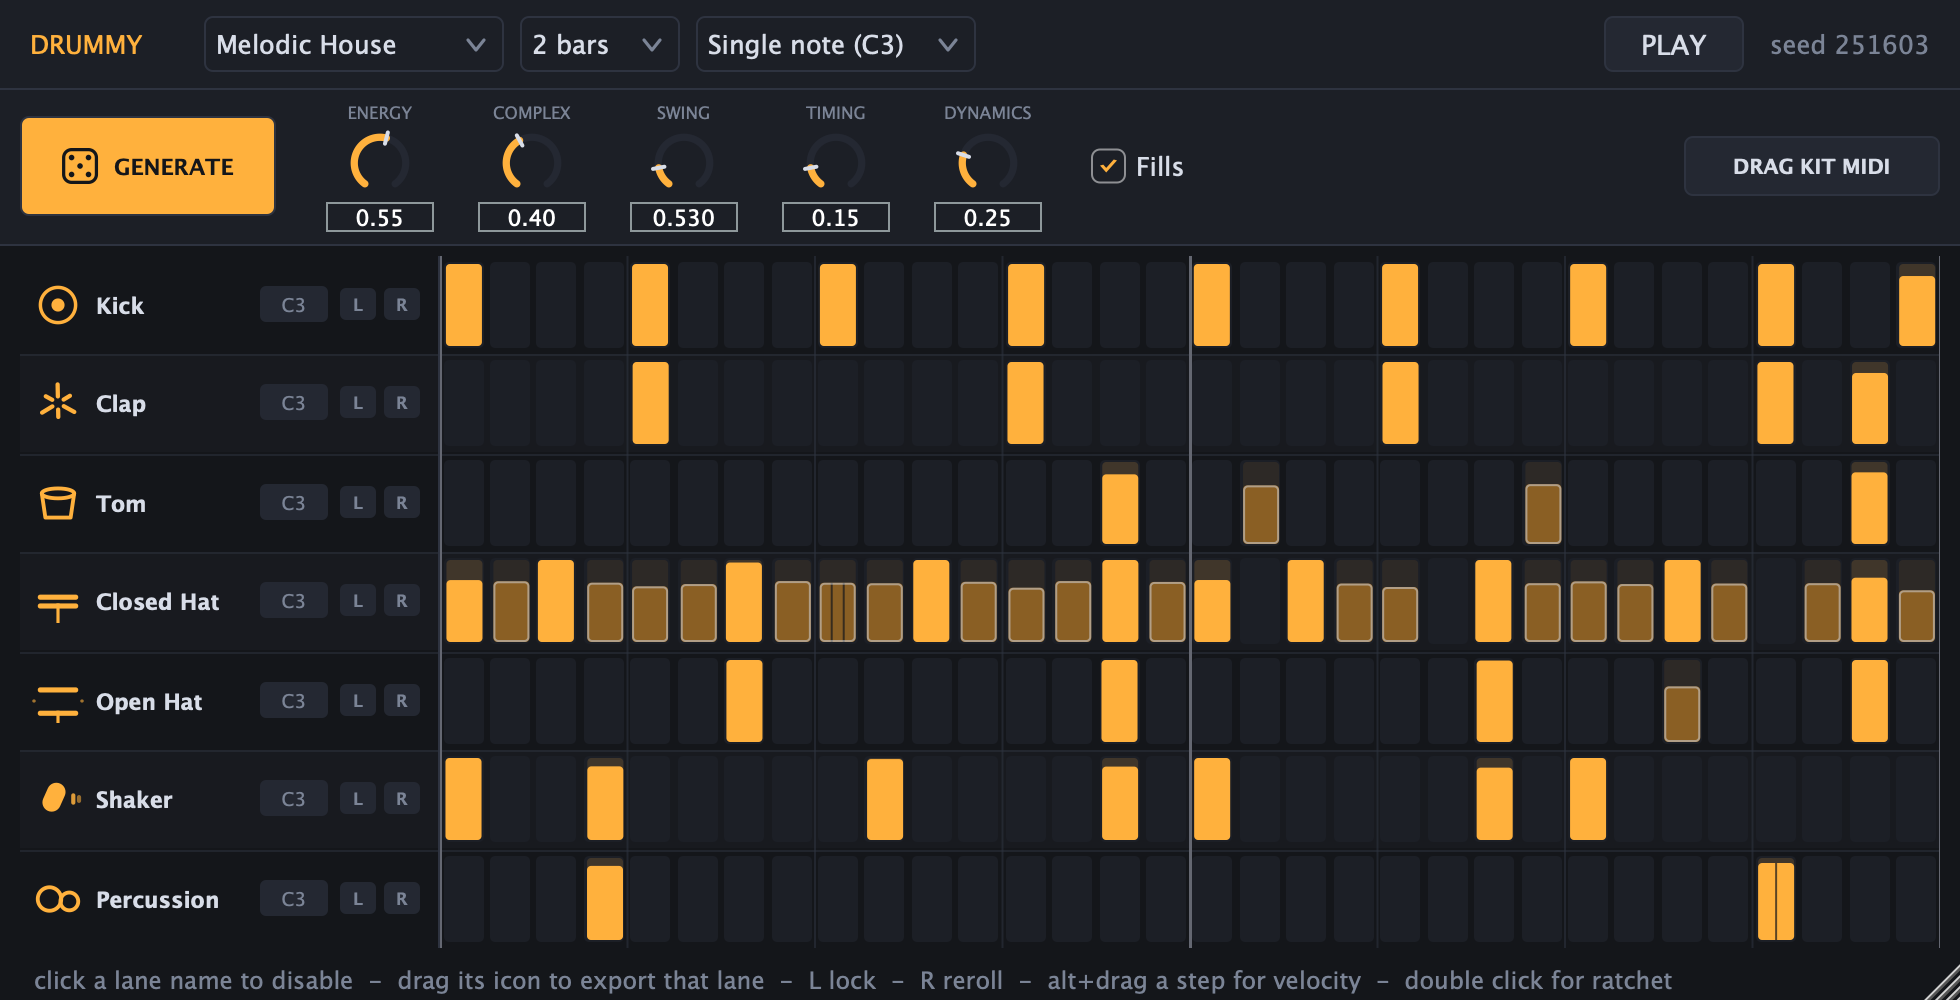
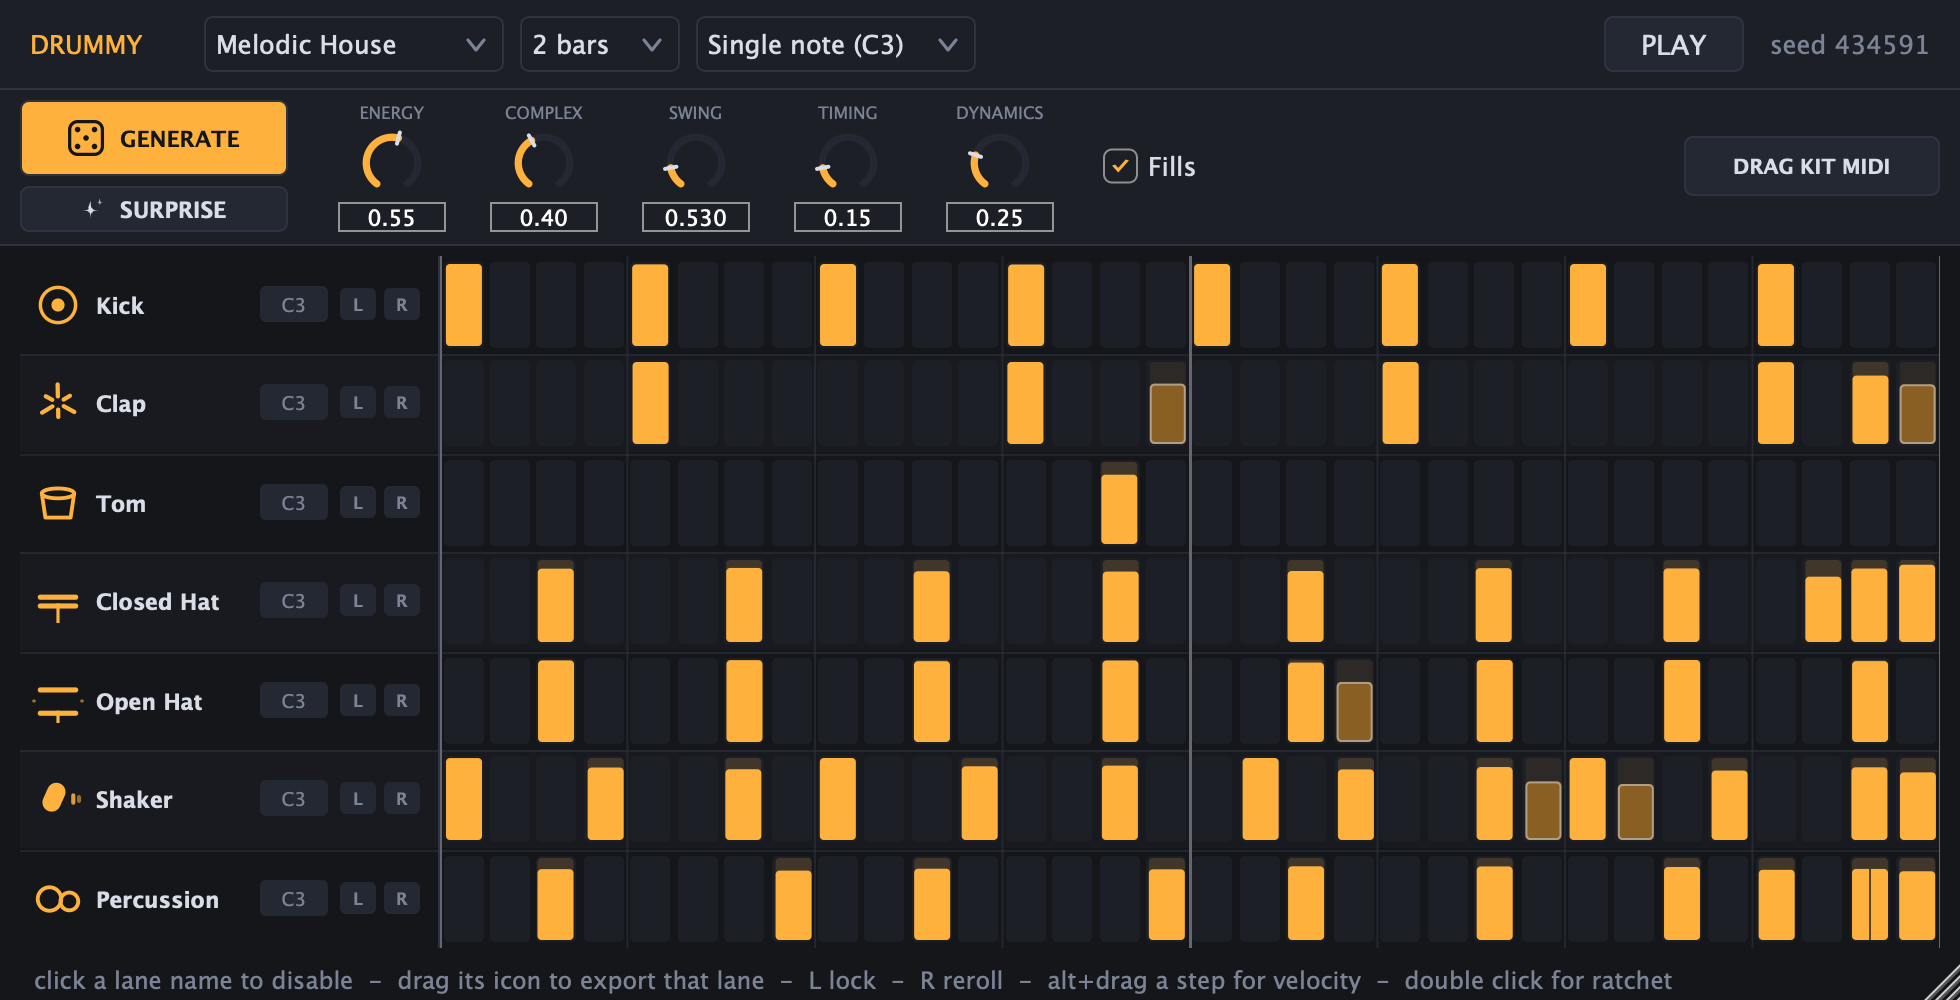
SURPRISE button, and stop the last lane paying the whole energy budget
Adds SURPRISE next to GENERATE: it rolls the genre and every generator setting
- energy, complexity, feel - and then generates. Locked lanes and the bar count
survive, because a lock is a promise and pattern length is structural rather
than a flavour. Swing wanders around the genre's own feel instead of the whole
range; a shuffled techno or a straight organic house is simply wrong.

Fixes an ordering bug the previews kept showing. applyEnergyBudget also ran
inside generateLane, and a full generate calls that lane by lane - so by the
time it reached Percussion, last in the dependency order, the kit was already
full and the whole budget was charged to that one lane. Percussion came out as
two hits in the fill while the hi-hat kept twenty. The budget is a property of
the finished kit, so it now runs once at the end; a single-lane reroll still
trims only itself.

Also weights the budget by a per-genre lane importance. Thinning whoever is
busiest starves the congas in afro house, since the hat is naturally the densest
lane - backwards for a genre where the percussion is the lead voice. Afro house
now settles around 14 conga hits to 7 hat, and techno inverts to 13 hat against
8 percussion, both pinned by tests.

diff --git a/Source/Engine/Generator.cpp b/Source/Engine/Generator.cpp
@@ -504,6 +504,64 @@ static void applyGenreGuards (LanePattern& p, LaneId lane, const GenSettings& s)
         p.steps[(size_t) i].clear();
 }
 
+/** How much a lane matters to a genre, used to decide who gives up hits when
+    the kit is over budget.
+
+    Without this the budget just thins whoever is busiest, which means the hi-hat
+    - naturally the densest lane - starves the congas in afro house. That is
+    exactly backwards: there the percussion is the lead voice and the hat is the
+    one that should step back.
+*/
+static float laneImportance (Genre genre, LaneId lane)
+{
+    switch (genre)
+    {
+        case Genre::OrganicHouse:
+        case Genre::AfroHouse:
+            switch (lane)
+            {
+                case LaneId::Percussion: return 2.0f;   // the lead voice
+                case LaneId::Shaker:     return 1.6f;
+                case LaneId::Tom:        return 1.1f;
+                case LaneId::OpenHat:    return 0.9f;
+                case LaneId::ClosedHat:  return 0.7f;   // steps back first
+                default:                 return 1.0f;
+            }
+
+        case Genre::IndieDance:
+            switch (lane)
+            {
+                case LaneId::ClosedHat:  return 1.4f;
+                case LaneId::OpenHat:    return 1.1f;
+                case LaneId::Percussion: return 1.1f;
+                default:                 return 1.0f;
+            }
+
+        case Genre::MelodicHouse:
+            switch (lane)
+            {
+                case LaneId::ClosedHat:  return 1.4f;
+                case LaneId::OpenHat:    return 1.3f;
+                case LaneId::Shaker:     return 1.1f;
+                case LaneId::Percussion: return 0.9f;
+                case LaneId::Tom:        return 0.8f;
+                default:                 return 1.0f;
+            }
+
+        case Genre::MelodicTechno:
+        case Genre::Techno:
+            switch (lane)
+            {
+                case LaneId::ClosedHat:  return 1.5f;   // the offbeat hat is the genre
+                case LaneId::OpenHat:    return 1.1f;
+                default:                 return 0.9f;
+            }
+
+        default:
+            return 1.0f;
+    }
+}
+
 /** Energy has to *distribute* hits, not stack them.
 
     Without this, every colour lane independently answers "how busy should I be?"
@@ -532,12 +590,14 @@ static void applyEnergyBudget (Kit& kit, const GenSettings& s, int onlyLane = -1
         return t;
     };
 
-    // A single-lane reroll only trims itself - it must not quietly rewrite the
-    // lanes the user just decided to keep.
+    // A lane is never thinned below this, so a lead voice cannot be silenced
+    // into a fill-only lane by a busier neighbour.
+    const int floorHits = bars * 2;
+
     for (int guard = 0; totalHits() > budget && guard < 512; ++guard)
     {
-        int busiest = -1;
-        int busiestCount = 0;
+        int worst = -1;
+        float worstScore = 0.0f;
 
         for (auto l : colour)
         {
@@ -551,18 +611,24 @@ static void applyEnergyBudget (Kit& kit, const GenSettings& s, int onlyLane = -1
 
             const int hits = kit.patterns[(size_t) idx].hitCount();
 
-            if (hits > busiestCount)
+            if (hits <= floorHits)
+                continue;
+
+            // Over-represented relative to how much this lane matters here.
+            const float score = (float) hits / laneImportance (s.genre, l);
+
+            if (score > worstScore)
             {
-                busiestCount = hits;
-                busiest = idx;
+                worstScore = score;
+                worst = idx;
             }
         }
 
         // Nothing left that we are allowed to thin.
-        if (busiest < 0 || busiestCount <= 2)
+        if (worst < 0)
             break;
 
-        auto& p = kit.patterns[(size_t) busiest];
+        auto& p = kit.patterns[(size_t) worst];
 
         int quietest = -1;
         float lowest = 2.0f;
@@ -585,7 +651,13 @@ static void applyEnergyBudget (Kit& kit, const GenSettings& s, int onlyLane = -1
 //  entry points
 // ============================================================================
 
-void Generator::generateLane (Kit& kit, LaneId lane, const GenSettings& s, int laneSeed)
+/** Build one lane, without touching the shared budget.
+
+    The budget is a property of the finished kit, so charging it per lane during
+    a full generate makes the lanes generated last pay for every lane before
+    them - and Percussion is last in the order, which is exactly how it ended up
+    thinned to a fill while the hi-hat kept twenty hits. */
+static void buildLane (Kit& kit, LaneId lane, const GenSettings& s, int laneSeed)
 {
     const int idx = (int) lane;
 
@@ -605,7 +677,15 @@ void Generator::generateLane (Kit& kit, LaneId lane, const GenSettings& s, int l
     applyFill (kit, lane, s, rng);
     applyGroove (kit.patterns[(size_t) idx], lane, s, rng);
     applyGenreGuards (kit.patterns[(size_t) idx], lane, s);
-    applyEnergyBudget (kit, s, idx);
+}
+
+void Generator::generateLane (Kit& kit, LaneId lane, const GenSettings& s, int laneSeed)
+{
+    buildLane (kit, lane, s, laneSeed);
+
+    // A single-lane reroll trims only itself - it must not quietly rewrite the
+    // lanes the user just decided to keep.
+    applyEnergyBudget (kit, s, (int) lane);
 }
 
 void Generator::generate (Kit& kit, const GenSettings& s)
@@ -631,7 +711,7 @@ void Generator::generate (Kit& kit, const GenSettings& s)
         if (! kit.lanes[(size_t) idx].enabled || kit.lanes[(size_t) idx].locked)
             continue;
 
-        generateLane (kit, lane, s, s.seed * 7919 + idx * 104729);
+        buildLane (kit, lane, s, s.seed * 7919 + idx * 104729);
     }
 
     applyEnergyBudget (kit, s);

diff --git a/Source/PluginEditor.cpp b/Source/PluginEditor.cpp
@@ -96,6 +96,8 @@ DrummyAudioProcessorEditor::DrummyAudioProcessorEditor (DrummyAudioProcessor& p)
     : AudioProcessorEditor (&p), proc (p),
       generateButton ("GENERATE", [] (juce::Graphics& g, juce::Rectangle<float> r, juce::Colour c)
                                   { Icons::drawDice (g, r, c); }),
+      surpriseButton ("SURPRISE", [] (juce::Graphics& g, juce::Rectangle<float> r, juce::Colour c)
+                                  { Icons::drawSparkle (g, r, c); }),
       grid (p), kitDrag (p, -1, "DRAG KIT MIDI")
 {
     setLookAndFeel (&lnf);
@@ -210,6 +212,13 @@ void DrummyAudioProcessorEditor::buildControls()
     generateButton.setColour (juce::TextButton::textColourOffId, Colours::background);
     addAndMakeVisible (generateButton);
 
+    // GENERATE rerolls the patterns you asked for; SURPRISE rerolls what you
+    // asked for as well - genre, energy, complexity, feel.
+    surpriseButton.onClick = [this] { proc.randomizeAll(); };
+    surpriseButton.setColour (juce::TextButton::buttonColourId, Colours::panelLight);
+    surpriseButton.setColour (juce::TextButton::textColourOffId, Colours::text);
+    addAndMakeVisible (surpriseButton);
+
     playButton.setClickingTogglesState (true);
     playButton.setColour (juce::TextButton::buttonColourId, Colours::panelLight);
     playButton.onClick = [this] { proc.setFreeRunEnabled (playButton.getToggleState()); };
@@ -300,7 +309,10 @@ void DrummyAudioProcessorEditor::resized()
     // ---- control strip
     auto controls = area.removeFromTop (78).reduced (10, 6);
 
-    generateButton.setBounds (controls.removeFromLeft (128).reduced (0, 8));
+    auto buttons = controls.removeFromLeft (134);
+    generateButton.setBounds (buttons.removeFromTop (38));
+    buttons.removeFromTop (5);
+    surpriseButton.setBounds (buttons.removeFromTop (23));
     controls.removeFromLeft (14);
 
     auto knobArea = controls.removeFromLeft (5 * 76);

diff --git a/Source/UI/Icons.cpp b/Source/UI/Icons.cpp
@@ -145,6 +145,40 @@ void Icons::drawLane (juce::Graphics& g, LaneId lane, juce::Rectangle<float> are
     }
 }
 
+void Icons::drawSparkle (juce::Graphics& g, juce::Rectangle<float> area, juce::Colour c)
+{
+    auto r = area.withSizeKeepingCentre (juce::jmin (area.getWidth(), area.getHeight()),
+                                         juce::jmin (area.getWidth(), area.getHeight()));
+
+    // A four-point star drawn as a pinched diamond - the concave waist is what
+    // makes it read as a sparkle and not as a rhombus.
+    auto star = [&] (juce::Point<float> centre, float radius)
+    {
+        const float waist = radius * 0.26f;
+
+        juce::Path p;
+        p.startNewSubPath (centre.x, centre.y - radius);
+        p.quadraticTo (centre.x, centre.y, centre.x + waist, centre.y - waist);
+        p.quadraticTo (centre.x, centre.y, centre.x + radius, centre.y);
+        p.quadraticTo (centre.x, centre.y, centre.x + waist, centre.y + waist);
+        p.quadraticTo (centre.x, centre.y, centre.x, centre.y + radius);
+        p.quadraticTo (centre.x, centre.y, centre.x - waist, centre.y + waist);
+        p.quadraticTo (centre.x, centre.y, centre.x - radius, centre.y);
+        p.quadraticTo (centre.x, centre.y, centre.x - waist, centre.y - waist);
+        p.closeSubPath();
+
+        g.fillPath (p);
+    };
+
+    g.setColour (c);
+    star (r.getCentre().translated (-r.getWidth() * 0.10f, r.getHeight() * 0.06f),
+          r.getWidth() * 0.42f);
+
+    g.setColour (c.withAlpha (0.75f));
+    star (r.getCentre().translated (r.getWidth() * 0.30f, -r.getHeight() * 0.28f),
+          r.getWidth() * 0.19f);
+}
+
 void Icons::drawDice (juce::Graphics& g, juce::Rectangle<float> area, juce::Colour c)
 {
     auto r = area.withSizeKeepingCentre (juce::jmin (area.getWidth(), area.getHeight()),

diff --git a/Tests/EngineTests.cpp b/Tests/EngineTests.cpp
@@ -207,6 +207,33 @@ int main()
             check (busiestTomPerBar >= 6, "techno's rolling tom keeps its density");
         }
 
+        // The budget must respect who the lead voice is. In afro house that is
+        // the percussion; in techno it is the offbeat hat.
+        {
+            auto average = [] (Genre genre, LaneId lane)
+            {
+                int total = 0;
+
+                for (int t = 0; t < 16; ++t)
+                    total += makeKit (genre, 0.6f, 0.5f, 900 + t, 2)
+                                 .patterns[(size_t) lane].hitCount();
+
+                return (float) total / 16.0f;
+            };
+
+            const float afroPerc = average (Genre::AfroHouse, LaneId::Percussion);
+            const float afroHat  = average (Genre::AfroHouse, LaneId::ClosedHat);
+            const float techPerc = average (Genre::Techno,    LaneId::Percussion);
+            const float techHat  = average (Genre::Techno,    LaneId::ClosedHat);
+
+            std::printf ("       afro   perc %.1f vs hat %.1f\n", afroPerc, afroHat);
+            std::printf ("       techno perc %.1f vs hat %.1f\n", techPerc, techHat);
+
+            check (afroPerc > 4.0f, "afro house percussion is never starved to a fill");
+            check (afroPerc > afroHat * 0.6f, "afro house lets the congas hold their ground");
+            check (techHat > techPerc, "techno still gives the hat priority");
+        }
+
         // Swing has to be real micro-timing, not a quantised lie.
         float maxMicro = 0.0f;
 

diff --git a/Source/PluginProcessor.cpp b/Source/PluginProcessor.cpp
@@ -96,6 +96,39 @@ void DrummyAudioProcessor::generateAll (bool newSeed)
     kitChanged.sendChangeMessage();
 }
 
+void DrummyAudioProcessor::randomizeAll()
+{
+    auto& r = juce::Random::getSystemRandom();
+
+    // Always land somewhere new - a surprise button that repeats itself is not
+    // a surprise.
+    if ((int) Genre::NumGenres > 1)
+    {
+        Genre next = gen.genre;
+
+        while (next == gen.genre)
+            next = (Genre) r.nextInt ((int) Genre::NumGenres);
+
+        gen.genre = next;
+    }
+
+    // Kept off the extremes on purpose: near zero the kit is empty and near one
+    // the budget just saturates, and neither is a result worth landing on.
+    gen.energy     = 0.25f + r.nextFloat() * 0.65f;
+    gen.complexity = 0.20f + r.nextFloat() * 0.60f;
+
+    // Swing wanders around the genre's own feel rather than across the whole
+    // range - a shuffled techno or a straight organic house is simply wrong.
+    gen.swing = juce::jlimit (0.5f, 0.68f,
+                              defaultSwingFor (gen.genre) + (r.nextFloat() - 0.5f) * 0.06f);
+
+    gen.humanTiming = 0.05f + r.nextFloat() * 0.35f;
+    gen.humanVel    = 0.10f + r.nextFloat() * 0.35f;
+    gen.fills       = r.nextFloat() < 0.8f;
+
+    generateAll (true);
+}
+
 void DrummyAudioProcessor::generateLane (LaneId lane)
 {
     const int idx = (int) lane;

diff --git a/Source/PluginProcessor.h b/Source/PluginProcessor.h
@@ -56,6 +56,11 @@ public:
 
     /** One-click generate: every enabled, unlocked lane gets a fresh pattern. */
     void generateAll (bool newSeed = true);
+
+    /** Surprise: rolls the genre and every generator setting, then regenerates.
+        Locked lanes and the bar count survive - lock is a promise, and pattern
+        length is a structural decision, not a flavour. */
+    void randomizeAll();
     void generateLane (drummy::LaneId lane);
 
     /** Copy the edited kit over to the audio thread. Call after any edit. */

diff --git a/Source/UI/Icons.h b/Source/UI/Icons.h
@@ -18,6 +18,9 @@ namespace Icons
 
     /** Die face, for the GENERATE button. */
     void drawDice (juce::Graphics&, juce::Rectangle<float> area, juce::Colour);
+
+    /** Four-point sparkle, for SURPRISE. */
+    void drawSparkle (juce::Graphics&, juce::Rectangle<float> area, juce::Colour);
 }
 
 } // namespace drummy::ui

diff --git a/Source/PluginEditor.h b/Source/PluginEditor.h
@@ -69,6 +69,7 @@ private:
     juce::Label       titleLabel, seedLabel, hintLabel;
     juce::ComboBox    genreBox, barsBox, noteMapBox;
     IconButton        generateButton;
+    IconButton        surpriseButton;
     juce::TextButton  playButton { "PLAY" };
     juce::ToggleButton fillsButton { "Fills" };
 

diff --git a/README.md b/README.md
@@ -120,8 +120,15 @@ gets repetitive:
 Energy is a **shared budget across the kit**, not a per-lane setting. Without
 that, every colour lane independently answers "how busy should I be?" and at
 seven lanes the honest answer from each one adds up to mud. Kick and clap are
-the skeleton and are never touched; the rest compete for one budget, and the
-busiest lane gives up its quietest hit first.
+the skeleton and are never touched; the rest compete for one budget.
+
+Who gives ground is decided per genre, not by who happens to be busiest. The
+hi-hat is naturally the densest lane, so thinning the busiest starved the congas
+in afro house — exactly backwards, since there the percussion is the lead voice
+and the hat is what should step back. Each lane now carries a per-genre
+importance, and the lane that is most over-represented relative to it gives up
+its quietest hit first. In afro house that lands around 14 conga hits to 7 hat;
+in techno it inverts to 13 hat against 8 percussion.
 
 Everything is driven by the seed number, so the same seed rebuilds the same kit.
 That is what makes **lock + reroll** work: keep the kick you liked, hit GENERATE,
@@ -137,6 +144,13 @@ and only the unlocked lanes change.
   programmed.
 - **Techno** — straight, zero swing, closed hat on the offbeat, sparse
   syncopated metal placed between the kicks, 32nd ratchet rolls into the phrase.
+
+## The two buttons
+
+**GENERATE** rerolls the patterns under the settings you chose. **SURPRISE**
+rerolls the settings too — genre, energy, complexity and feel — and then
+generates. Locked lanes and the bar count survive both: a lock is a promise, and
+pattern length is a structural decision rather than a flavour.
 
 ## Editing the grid
 
@@ -193,9 +207,6 @@ Tools/
 ## Not there yet
 
 - More lanes: snare, ghost snare, rim, ride, crash, tambourine, FX
-- The energy budget has no notion of a genre's *lead voice* — in afro house the
-  hi-hat can currently out-compete the congas for the budget, when the congas
-  should win
 - The shaker and the percussion lane can still land on near-identical rhythms
 - Host-automatable parameters (state saves and recalls, but nothing is automatable yet)
 - Preset browser
